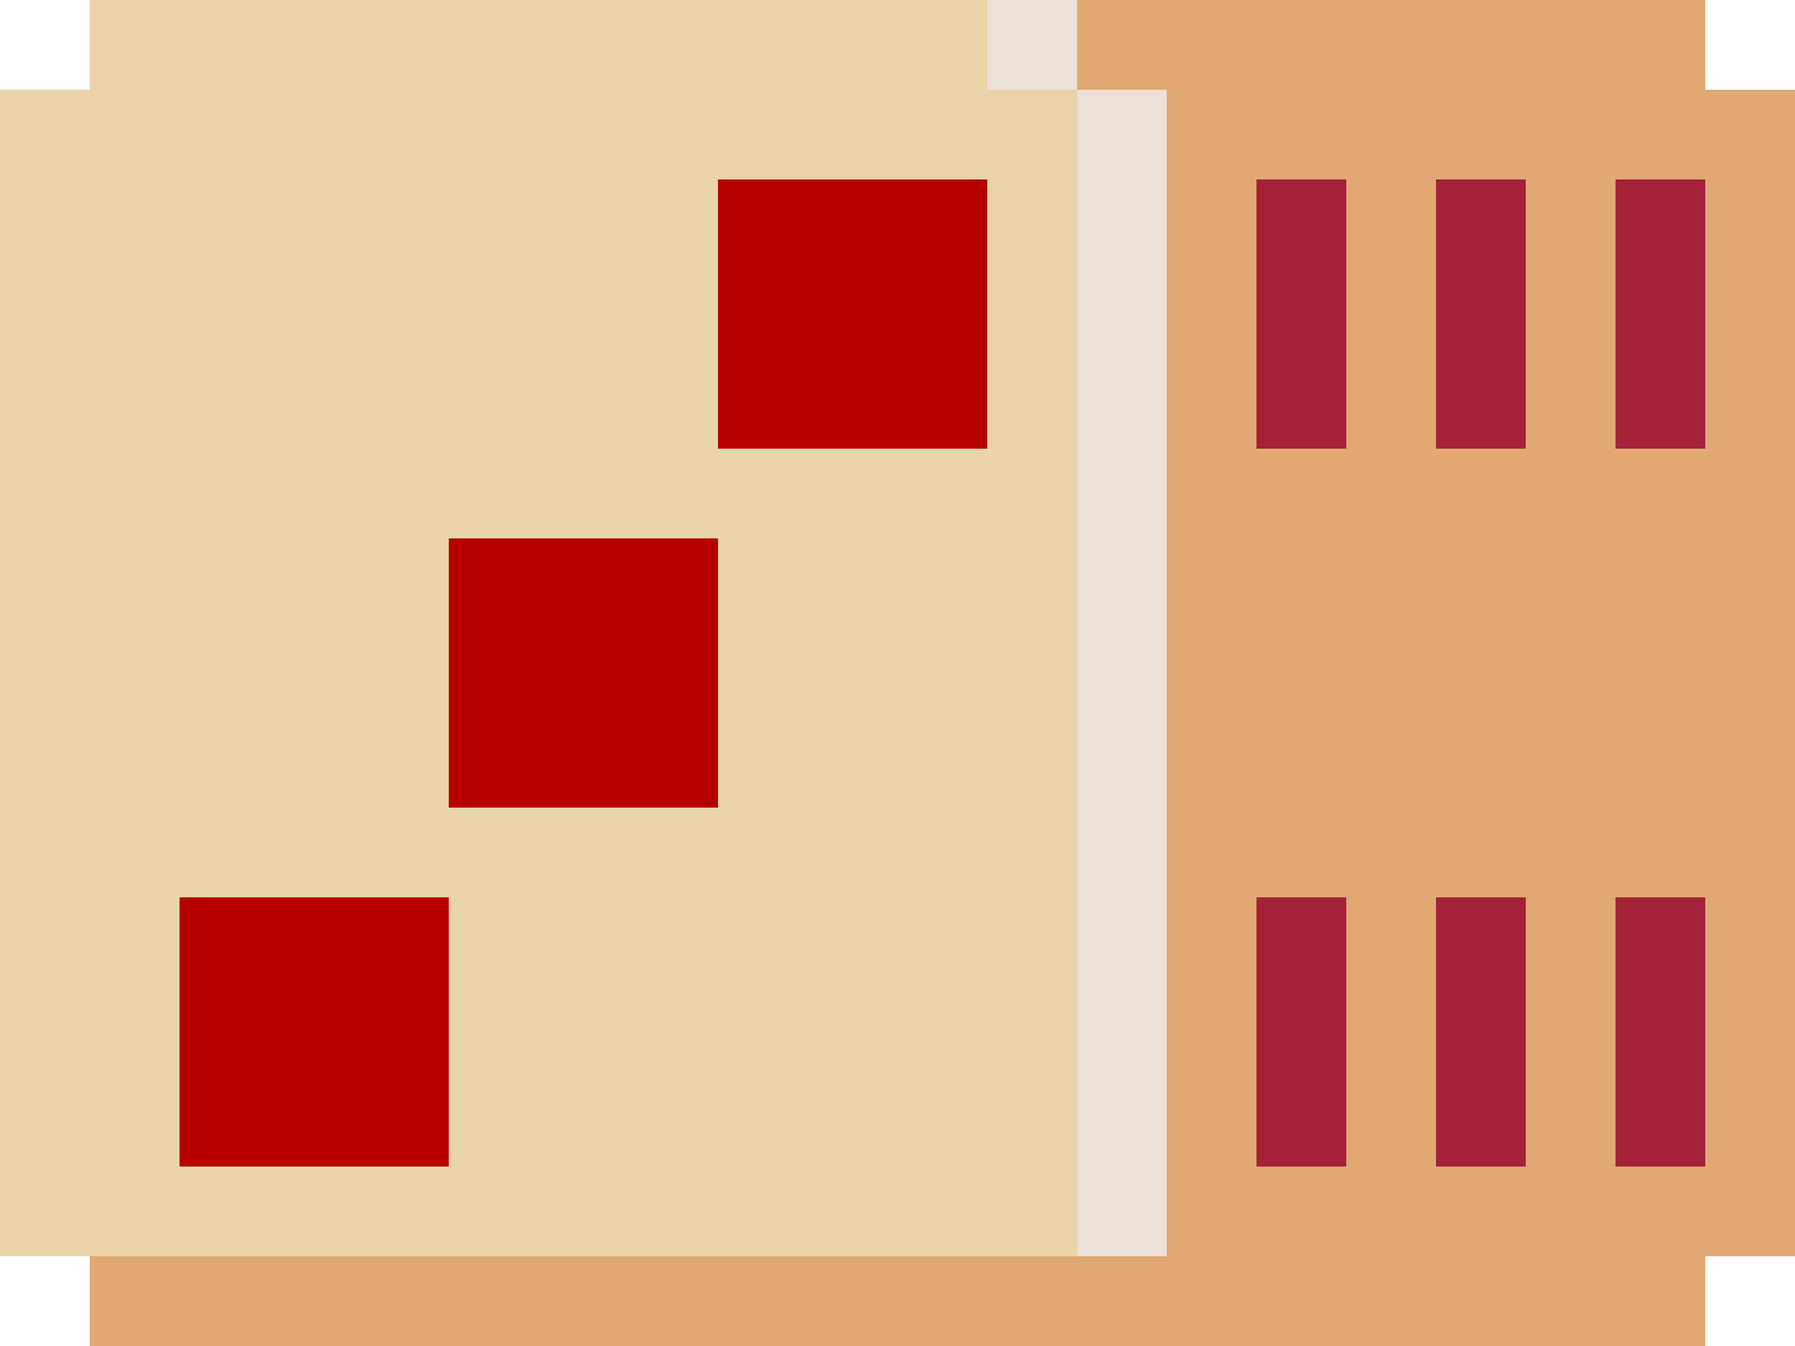
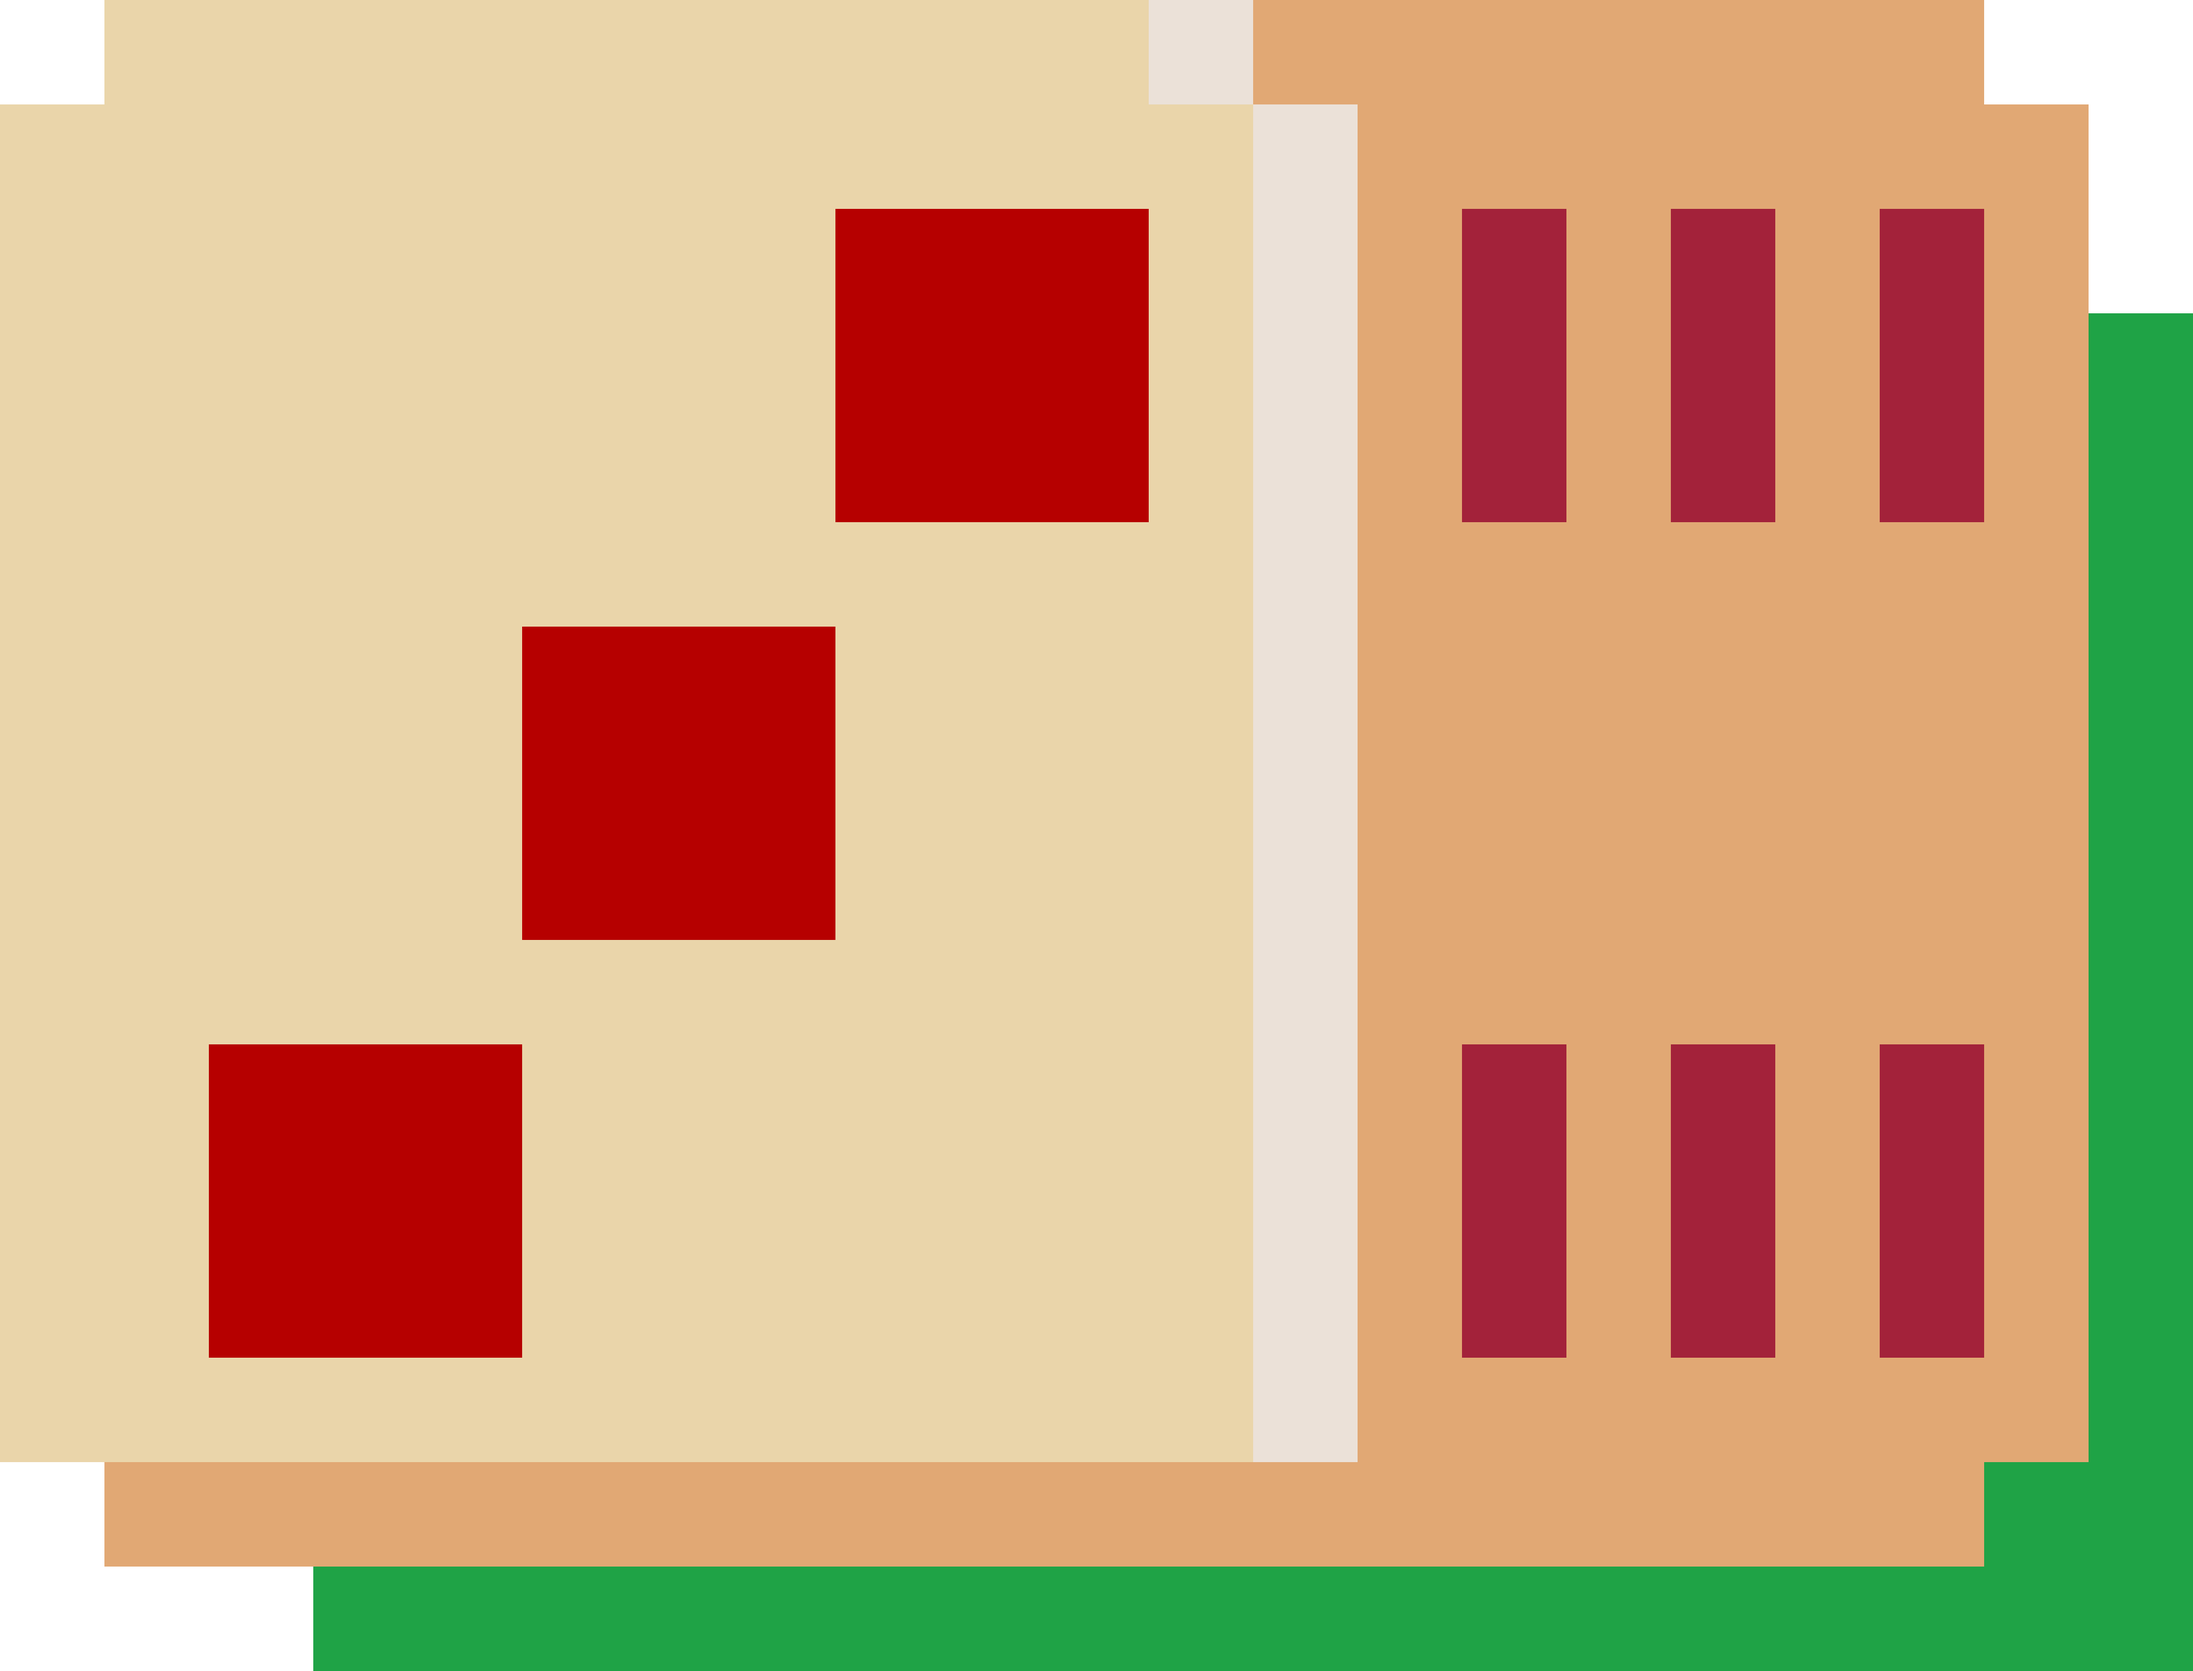
sistema puntos | inicio dados

diff --git a/code/src/gui/casilla-dado.css b/code/src/gui/casilla-dado.css
@@ -1,0 +1,12 @@
+.button {
+    -fx-background-color: #22b14c;
+    -fx-border-color: #ffffff;
+    -fx-border-width: 5px;
+    -fx-text-fill: #ffffff;
+    -fx-min-width: 100px;
+    -fx-min-height: 100px;
+}
+
+.button:hover {
+    -fx-background-color: #1fa346;
+}

diff --git a/code/src/gui/slider.css b/code/src/gui/slider.css
@@ -1,0 +1,8 @@
+.custom-slider .track {
+    -fx-background-color: white;
+}
+
+.custom-slider .thumb {
+    -fx-background-color: white;
+    -fx-shape: "M 0,0 L 40,0 L 40,40 L 0,40 Z";
+}

diff --git a/code/src/gui/MenuJuegosController.java b/code/src/gui/MenuJuegosController.java
@@ -1,7 +1,9 @@
 package gui;
 
+import casino.CASINO;
 import java.io.IOException;
 import java.net.URL;
+import java.util.ArrayList;
 import java.util.ResourceBundle;
 import javafx.event.ActionEvent;
 import javafx.fxml.FXML;
@@ -14,8 +16,29 @@ import javafx.stage.Stage;
 
 public class MenuJuegosController implements Initializable {
 
+    private CASINO casino = Main.getCasino();
+    private String user = casino.getUser();
+    private String[][] usuariosList = casino.getUsuariosList();
+    private int puntos;
+        
     @FXML
     private Button atras;
+
+    @FXML
+    private Button dados;
+
+    @FXML
+    void juegoDados(ActionEvent event) throws IOException {
+        Stage stage;
+        Parent root;
+
+        stage = (Stage) atras.getScene().getWindow();
+        root = FXMLLoader.load(getClass().getResource("Dados.fxml"));
+
+        Scene scene = new Scene(root);
+        stage.setScene(scene);
+        stage.show();
+    }
 
     @FXML
     void volverAtras(ActionEvent event) throws IOException {
@@ -32,7 +55,13 @@ public class MenuJuegosController implements Initializable {
 
     @Override
     public void initialize(URL url, ResourceBundle rb) {
-        // TODO
+        
+        for (int i = 0; i < usuariosList.length; i++) {
+            if (usuariosList[i][0].equals(user)){
+                puntos = Integer.parseInt(usuariosList[i][2]);
+            }
+        }
+          
     }
 
 }

diff --git a/code/src/gui/RegistroController.java b/code/src/gui/RegistroController.java
@@ -67,17 +67,19 @@ public class RegistroController implements Initializable {
 
         // si la password y la confirmacion de la password son iguales, se desvia al if para agregar dinero a la cuenta
         if (passwd.equals(passwd_aux) && usuarioNuevo) {
-
+            
+            casino.setUser(username.getText().toString());
+            
             ingreso = 3000;
 
             // se redimensiona el array de usuarios para agregar un registro nuevo
             usuariosList = Arrays.copyOf(usuariosList, usuariosList.length + 1);
-            usuariosList[usuariosList.length - 1] = new String[2];
+            usuariosList[usuariosList.length - 1] = new String[3];
 
             // Se añaden a la ultima fila del array el usuario y contrasena que hemos especificado en el registro
             usuariosList[usuariosList.length - 1][0] = user;
             usuariosList[usuariosList.length - 1][1] = passwd;
-            puntosUsuario.add(ingreso);
+            usuariosList[usuariosList.length - 1][2] = Integer.toString(ingreso);
 
             // se vacia la variable user para evitar errores posteriores
             user = "";

diff --git a/code/src/gui/DadosController.java b/code/src/gui/DadosController.java
@@ -1,0 +1,41 @@
+package gui;
+
+import java.net.URL;
+import java.util.ResourceBundle;
+import javafx.event.ActionEvent;
+import javafx.fxml.FXML;
+import javafx.fxml.Initializable;
+import javafx.scene.control.Button;
+import javafx.scene.control.Slider;
+import javafx.scene.text.Text;
+
+public class DadosController implements Initializable {
+    
+    @FXML
+    private Text numeroTexto;
+
+    @FXML
+    private Button ok;
+
+    @FXML
+    private Slider sliderNumero;
+
+    @FXML
+    void confirmar(ActionEvent event) {
+        int valorFinal = (int) sliderNumero.getValue();
+        
+        System.out.println(valorFinal);  
+    }
+    
+    @Override
+    public void initialize(URL url, ResourceBundle rb) {
+        sliderNumero.setMajorTickUnit(1);
+        numeroTexto.setText("");
+        
+        sliderNumero.valueProperty().addListener((observable, oldValue, newValue) -> {
+            int valorEntero = newValue.intValue();
+            numeroTexto.setText(Integer.toString(valorEntero)); 
+        });
+    }    
+    
+}

diff --git a/code/src/casino/CASINO.java b/code/src/casino/CASINO.java
@@ -16,7 +16,7 @@ import java.util.ArrayList;
 public class CASINO {
 
     // Array bidimensional para almacenar los usuarios del sistema de juego del casino
-    public static String[][] usuariosList = new String[0][2];
+    public static String[][] usuariosList = new String[0][3];
 
     // ArrayList para almacenar todos los puntos de los usuarios creados en el fichero de juego
     public static ArrayList<Integer> puntosUsuario = new ArrayList<>();
@@ -74,5 +74,15 @@ public class CASINO {
 
     public void setPuntos(ArrayList<Integer> puntos) {
         this.puntos = puntos;
+    }
+    
+    public int getPuntos(String user){
+        for (int i = 0; i < usuariosList.length; i++) {
+            if (user == usuariosList[i][0]) {
+                int puntos = Integer.parseInt(usuariosList[i][2]);
+                return puntos;
+            }
+        }
+        return 0;
     }
 }

diff --git a/code/src/datos/Sistema_ficheros.java b/code/src/datos/Sistema_ficheros.java
@@ -84,11 +84,12 @@ public class Sistema_ficheros {
 
                 // anadimos una fila al array
                 usuariosList = Arrays.copyOf(usuariosList, usuariosList.length + 1);
-                usuariosList[usuariosList.length - 1] = new String[2];
+                usuariosList[usuariosList.length - 1] = new String[3];
 
                 // el usuario es lo primero que hay en la linea del documento, la password lo segundo y los puntos lo tercero
                 usuariosList[i][0] = arrayLinea[0];
                 usuariosList[i][1] = arrayLinea[1];
+                usuariosList[i][2] = arrayLinea[2];
                 // anadimos a este arraylist los puntos del usuario de la linea actual
                 puntosUsuario.add(Integer.parseInt(arrayLinea[2]));
 

diff --git a/code/src/gui/LoginController.java b/code/src/gui/LoginController.java
@@ -60,7 +60,7 @@ public class LoginController implements Initializable {
 
                 puntos.clear();
 
-                casino.setUser(casino.user);
+                casino.setUser(user.toString());
                 puntos.add(puntosUsuario.get(i));
                 casino.setPuntos(puntos);
                 usuarioCorrecto = true;
